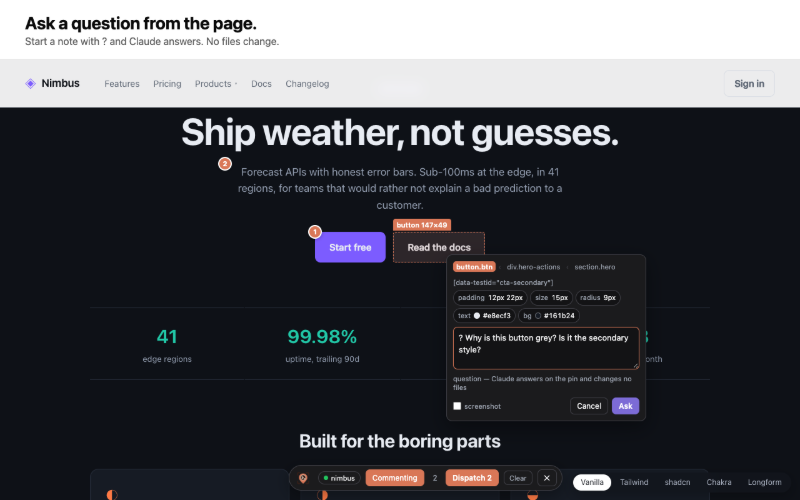
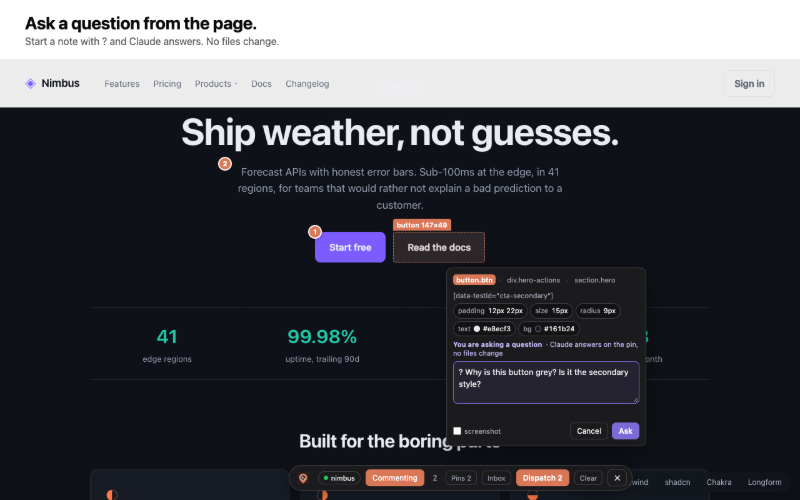
1.0.0: version, changelog, store listings for Chrome, Opera and Firefox, new store screenshots
The version is 1.0.0 in every file. The changelog covers everything since 0.4.5. The
Chrome and Opera listings name the new features, and store/firefox.md holds the listing
and reviewer notes for addons.mozilla.org. The store screenshots are made again with the
new toolbar, and the script now picks pins by their number, because pins are in page
order, and waits for the answer before it opens its card.

Changed region(s): [[0.5312, 0.51, 0.8125, 0.9], [0.5312, 0.93, 0.7812, 0.99]]

diff --git a/scripts/store-shots.js b/scripts/store-shots.js
@@ -172,8 +172,11 @@ try {
 
   // Claude answers the question, on pin 3.
   emit({ type: 'reply', id: 'story-0001#3', text: 'It is the secondary button style from the theme. The primary one is the purple above it. I left it as it is.' })
+  await host('.pin[aria-label^="Pin 3, question, answered"]').waitFor({ timeout: 8000 })
   await page.waitForTimeout(500)
-  await host('.pin').nth(2).click()
+  // The answer may open its own card; a click on the pin would then close it.
+  if (!(await host('.card').isVisible().catch(() => false))) await host('.pin[aria-label^="Pin 3,"]').click()
+  await host('.card').waitFor({ timeout: 5000 })
   await page.waitForTimeout(500)
   await shot('3-answer')
   await page.keyboard.press('Escape')
@@ -185,7 +188,7 @@ try {
   await page.waitForTimeout(400)
   emit({ type: 'resolved', id: 'story-0001#1', resolution: 'Raised the padding to 14px 28px and the font to 16px in Button.tsx' })
   await page.waitForTimeout(600)
-  await host('.pin').nth(0).click()
+  await host('.pin[aria-label^="Pin 1,"]').click()
   await page.waitForTimeout(500)
   await shot('5-fixed')
 

diff --git a/server/pinpoint.js b/server/pinpoint.js
@@ -66,7 +66,7 @@ const MAX_BATCH_IMAGES = 40 * 1024 * 1024
  * Keep in step with package.json and the manifests. PINPOINT_VERSION exists for the yield
  * test, which needs an older and a newer bridge built from the same file.
  */
-const VERSION = process.env.PINPOINT_VERSION ?? '0.4.5'
+const VERSION = process.env.PINPOINT_VERSION ?? '1.0.0'
 
 mkdirSync(QUEUE, { recursive: true })
 

diff --git a/docs/features.html b/docs/features.html
@@ -862,7 +862,7 @@
 </div>
 
 <header class="hero">
-  <div class="kicker">versions 0.2 to 0.5</div>
+  <div class="kicker">versions 0.2 to 1.0</div>
   <h1 class="tagline">Stop describing the fix.<br><em>Hand it over.</em></h1>
 
   <p class="lede">

diff --git a/store/firefox.md b/store/firefox.md
@@ -1,0 +1,144 @@
+# Firefox Add-ons listing: Pinpoint
+
+Everything the submission form at https://addons.mozilla.org/developers/ asks for, ready to
+paste. Build the package with `npm run build:firefox`. The screenshots are in
+`store/screenshots`, made by `npm run store:shots`.
+
+## Package
+
+- Build: `npm run build:firefox` copies `extension/` to `dist/firefox` and writes a Firefox
+  manifest next to the same code. The Firefox manifest differs from the Chrome one in four
+  keys: `background` (an event page that runs `worker.js`, because Firefox has no service
+  workers), `options_ui` (in place of `options_page`), the add-on id
+  `pinpoint@tolgainam.github.io` and `strict_min_version` 128.0.
+- Listed on AMO: zip the contents of the folder, with `manifest.json` at the top:
+  `cd dist/firefox && zip -r -X ../store/pinpoint-firefox-1.0.0.zip . -x '*.DS_Store'`.
+  Upload that file. Mozilla signs it for you.
+- Unlisted, signed by Mozilla for your own use: `npm run sign:firefox`. It builds the folder,
+  then runs `web-ext sign --channel=unlisted` and writes the signed `.xpi` to
+  `web-ext-artifacts`. It needs AMO API keys in the environment (`WEB_EXT_API_KEY` and
+  `WEB_EXT_API_SECRET`).
+- Version: `1.0.0`.
+- Minimum Firefox: 128. It is the first version that runs a content script in the page's own
+  world, which `probe.js` needs.
+- Add-on id: `pinpoint@tolgainam.github.io`.
+- Icon: `extension/icons/icon-128.png`.
+- Screenshots (800 x 500), in this order: `store/screenshots/1-dispatch.png`, `2-ask.png`,
+  `3-answer.png`, `4-backlog.png`, `5-fixed.png`. Each has a caption strip that says what it
+  shows.
+
+## Listing
+
+- **Name:** Pinpoint
+- **Summary** (250 characters at most): Pin comments to elements on your local web app and talk to
+  your Claude Code session from the page: ask, park or fix.
+- **Categories:** Developer Tools (first choice), Web Development if the form offers it.
+- **Description:**
+
+  Pinpoint is a two-way link between the page you are looking at and your Claude Code session.
+
+  Pin it. Click an element, write what is wrong, press Dispatch. Claude Code gets the CSS
+  selector, the component name where it can be found, the visible text, the element's size and
+  position, the page address and a cropped screenshot of exactly what you saw.
+
+  Ask it. Start a note with ? and Claude answers on the pin. No files change.
+
+  Park it. Start a note with ! and it joins your project's backlog, to pick up later.
+
+  Watch it get fixed. Claude edits your code, checks the element again and marks the comment
+  done. The pin turns green. Not right yet? Reply on the pin and it goes another round.
+
+  Why Claude Code only
+  Pinpoint is built on Claude Code's channels, a live link into your running session. That is
+  what lets answers, progress and fixes come back to the page, not just comments go out. No
+  other coding agent offers that link, so Pinpoint works with Claude Code only. Channels are a
+  research preview, so you start Claude Code with one extra flag. The setup steps show it.
+  Without the flag nothing is lost: run /pinpoint:comments in the session and every dispatched
+  comment is there.
+
+  More
+  - Works on localhost and 127.0.0.1 straight away. Any other site, such as a staging server,
+    is opt-in: clicking the icon asks the browser for that one site.
+  - Pins stay on their element and survive a reload.
+  - Picks values in your project's own design tokens.
+  - Freezes the page (Alt+Shift+F) so you can pin menus and states that vanish.
+  - Shows the page's console errors and failed requests next to a comment.
+  - Applies a picked change to a group of matching elements: the same classes, the same
+    component role, the same container or every tag. You see the count and a preview first.
+  - Pins follow single-page app routes, so each view of your app keeps its own pins.
+  - An inbox on the toolbar lists what needs your attention, such as an answer you have not
+    seen, and jumps to the pin.
+  - Works from the keyboard and with a screen reader. Alt+Shift+P moves focus to the toolbar.
+
+  Private by design
+  Everything stays on your machine. Pinpoint has no server, no account and no analytics. The
+  extension talks only to a small bridge on 127.0.0.1 that the Pinpoint plugin starts.
+
+  What you need
+  The free Pinpoint plugin for Claude Code and Node 20 or newer. Without the plugin the toolbar
+  shows "Offline" and Dispatch is turned off. Setup steps: https://github.com/tolgainam/pinpoint
+
+  Pinpoint is an independent tool. It is not affiliated with, endorsed by or sponsored by
+  Anthropic. "Claude" and "Claude Code" are trademarks of Anthropic, PBC.
+
+- **Licence:** MIT. Choose "MIT License" in the list.
+- **Support site:** https://github.com/tolgainam/pinpoint/issues
+- **Homepage:** https://tolgainam.github.io/pinpoint/
+- **Privacy policy:** https://github.com/tolgainam/pinpoint/blob/main/PRIVACY.md
+
+## Permissions, in plain words
+
+Use these if the form or a reviewer asks.
+
+| Permission | Why |
+|---|---|
+| `storage` | Keeps your pins, drafts, toolbar position and settings in the browser. |
+| `tabs` | Reads the address of the current tab so the toolbar can tell a local page from another site, and sends events to the right tab. |
+| `scripting` | Attaches the toolbar to a tab that was already open when the extension was installed or reloaded. |
+| `alarms` | Wakes the extension's background page every 30 seconds so that an answer from the coding agent still reaches the page while the browser window is in the background. |
+| `activeTab` | Lets the extension take a screenshot of the tab after you click its icon. |
+| `localhost` and `127.0.0.1` | The pages Pinpoint works on, and the address of its own local bridge. |
+| Optional: all sites | Never granted at install. Asked for one site at a time when you click the icon on a site that is not local, and once, on the welcome page, if you choose lasting screenshot access. |
+
+On Firefox the host access is a permission you can turn off. If localhost pages show no
+toolbar, open `about:addons`, pick Pinpoint, then Permissions, and allow access to the
+localhost sites.
+
+## Data collection
+
+- `data_collection_permissions`: `required: ["none"]`, set in the manifest by
+  `scripts/firefox.js`. Pinpoint collects and transmits no data.
+- The extension keeps pins and drafts in the browser's own storage. The only network target
+  is the bridge on the user's own machine (`http://127.0.0.1:8788`).
+- Firefox older than 140 ignores `data_collection_permissions`. `web-ext lint` says so as a
+  warning. The minimum version is 128, so the warning stays.
+
+## Notes for the reviewer
+
+- **Source:** public and unminified, no build step. https://github.com/tolgainam/pinpoint
+  Nothing is bundled, transpiled or minified. The files in the package are the files in
+  `extension/`.
+- **How to reproduce the package:** clone the repository, run `npm run build:firefox` (Node 20
+  or newer, no `npm install` needed for this step), and compare `dist/firefox` with the
+  upload. The only file that differs from `extension/` is `manifest.json`, which
+  `scripts/firefox.js` derives from the Chrome one. The script is short and has comments.
+- **Network:** the extension talks only to `http://127.0.0.1:8788`, a bridge on the user's
+  own machine. It sends nothing to any other host.
+- **Remote code:** none. All code is in the package and no script is loaded from anywhere.
+- **How to try it without Claude Code:** run any page on localhost, for example
+  `python3 -m http.server 8000` in a folder with an `index.html`, open
+  `http://localhost:8000`, and click the Pinpoint icon. The toolbar shows "Offline" because
+  no bridge is running, but you can pick elements, write notes and see pins. Dispatch needs
+  the bridge.
+- **Manifest version:** 3, with an event page (`background.scripts`). The content script
+  `probe.js` uses `"world": "MAIN"`, which needs Firefox 128.
+
+## Before you submit
+
+1. Run `npm run build:firefox`, then `npx --yes web-ext lint --source-dir=dist/firefox`.
+2. Zip `dist/firefox` as shown under Package.
+3. Make sure `PRIVACY.md` is pushed to the `main` branch, or the privacy link will not open.
+4. Test the folder yourself: in Firefox, `about:debugging#/runtime/this-firefox`,
+   Load Temporary Add-on, and pick `dist/firefox/manifest.json`. Allow localhost access under
+   `about:addons`.
+5. Run `npm run store:shots` if the screenshots are out of date.

diff --git a/CHANGELOG.md b/CHANGELOG.md
@@ -1,5 +1,51 @@
 # Changelog
 
+## 1.0.0
+
+Update both halves. Press Reload on Pinpoint in your browser's extensions page, and run
+`claude plugin update pinpoint@pinpoint-marketplace` for the plugin. An older extension with a
+newer bridge, or a newer extension with an older bridge, still works. The features that need
+both halves stay hidden until both are updated.
+
+- Apply to: choose which elements a change covers. After you pick a value, the composer shows
+  Only this, Same classes, Same component role, Same container or Every tag, each with a count
+  for the current page. Hover or focus an option and the members are outlined. Choose one and
+  the change previews on all of them. A wider group warns you when its members differ. The
+  card of a saved comment says which group it applies to, for example "Applies to: Same
+  classes · 3 elements". The bridge checks the group and tells the model that it is a set of
+  rendered nodes, that the selector is only a hint, and that the shared source is the place to
+  change. Only this changes nothing, as before.
+- Pins follow the routes of single-page apps. A page that keeps its state in the URL keeps its
+  pins. Pins are stored by origin, path and route. Only `#/path` and `#!/path` count as a route,
+  so a hash that only holds state (`#tab=2`) no longer hides pins. Old pins move to the new
+  key on their own. A pin made on another URL state is marked, and a pin whose element is gone
+  is dimmed. Each comment has its own id, and two tabs merge their changes by id, so neither
+  loses the other's work.
+- Inbox on the toolbar. A badge counts the comments that need you: a failed dispatch, an
+  unsaved parked note, an unseen answer, an edit or a resolve, or a pin whose element is gone.
+  This page lists them in groups, shows answers in full and jumps to the pin. Project lists the
+  comments of the other routes on the same origin and asks the bridge once per opening for
+  newer answers. An answer can now say that it needs your input (`requiresResponse`). Nothing
+  depends on it being set.
+- Keyboard and screen reader. The toolbar is one tab stop with arrow keys. Pins are buttons with
+  a spoken name: number, kind, state and note. Escape returns focus to a stated place. A polite
+  live region announces results. Focus rings, reduced motion, forced colours and 200 percent
+  zoom are handled. Alt+Shift+P shows the toolbar and moves the keyboard to it. This adds a
+  command and no permission.
+- The design system stays fresh. The bridge re-checks the config and theme files it read, and
+  refreshes in the background when they change. A failed refresh keeps the last good summary
+  and marks it stale. The status pill has a Refresh design system button, and an open composer
+  says when its data may be out of date.
+- Screenshots are saved without blocking the bridge, with a size limit of 12 MiB each and
+  40 MiB per dispatch. A failed write leaves no half batch behind and the page is told. A
+  parked note whose screenshot cannot be saved is kept, with a warning.
+- Backlog and history are written under a project lock. Two sessions on one project can write at
+  once without losing an entry or finishing the wrong item. A lock left by a dead process is
+  recovered.
+- Behind the scenes: `npm run check` runs the syntax, design token, repo rule and type checks
+  in one go, and CI runs it before the tests. The lockfile now resolves zod and body-parser
+  outside the ranges of the high severity advisories.
+
 ## 0.4.5
 
 - Two sessions open on one project no longer swap places. A dispatch goes to the session that

diff --git a/store/chrome.md b/store/chrome.md
@@ -6,7 +6,7 @@ each tab. Build the zip and the images with `npm run package:extension` and
 
 ## Package
 
-- File: `dist/store/pinpoint-0.4.5.zip`. It is the `extension/` folder with `manifest.json`
+- File: `dist/store/pinpoint-1.0.0.zip`. It is the `extension/` folder with `manifest.json`
   at the top. The same file works for Edge Add-ons.
 - The extension's name and description come from `manifest.json`. The description is under
   132 characters, which the store requires.
@@ -47,6 +47,12 @@ each tab. Build the zip and the images with `npm run package:extension` and
   - Picks values in your project's own design tokens.
   - Freezes the page (Alt+Shift+F) so you can pin menus and states that vanish.
   - Shows the page's console errors and failed requests next to a comment.
+  - Applies a picked change to a group of matching elements: the same classes, the same
+    component role, the same container or every tag. You see the count and a preview first.
+  - Pins follow single-page app routes, so each view of your app keeps its own pins.
+  - An inbox on the toolbar lists what needs your attention, such as an answer you have not
+    seen, and jumps to the pin.
+  - Works from the keyboard and with a screen reader. Alt+Shift+P moves focus to the toolbar.
 
   Private by design
   Everything stays on your machine. Pinpoint has no server, no account and no analytics. The
@@ -82,7 +88,7 @@ each tab. Build the zip and the images with `npm run package:extension` and
   | `tabs` | Reads the address of the current tab to tell a local page from another site, and sends events from the worker to the right tab. |
   | `scripting` | Attaches the toolbar to a tab that was already open when the extension was installed or reloaded, and to a site the user chose. |
   | `alarms` | Wakes the extension's background worker every 30 seconds so that an answer from the coding agent still reaches the page while the browser window is in the background. |
-| `activeTab` | Takes a screenshot of the tab after the user clicks the icon. |
+  | `activeTab` | Takes a screenshot of the tab after the user clicks the icon. |
   | Host access: `http://localhost/*`, `http://127.0.0.1/*` | The pages Pinpoint works on, and the address of its own local bridge (`127.0.0.1:8788`). |
   | Optional host access: all sites | Not granted at install. Asked for one site at a time when the user clicks the icon on a site that is not local, and once on the welcome page if the user chooses screenshots without clicking. |
 
@@ -107,6 +113,8 @@ each tab. Build the zip and the images with `npm run package:extension` and
 
 - **Source:** public and unminified, no build step: https://github.com/tolgainam/pinpoint
 - **Network:** only `http://127.0.0.1:8788`. Nothing is sent to any other host.
+- **Shortcuts:** Alt+Shift+F freezes the page and Alt+Shift+P moves the keyboard to the toolbar.
+  Both are extension commands and need no permission.
 - **How to try it without the plugin:** open any page on localhost and click the icon. The
   toolbar shows "Offline" because no bridge is running, but you can pick elements, write
   notes and see pins. Dispatch needs the bridge.

diff --git a/store/opera.md b/store/opera.md
@@ -6,9 +6,9 @@ screenshots are in `store/screenshots`, made by `npm run store:shots`.
 
 ## Package
 
-- File: `dist/store/pinpoint-0.4.5.zip` (the contents of `extension/`, with `manifest.json`
+- File: `dist/store/pinpoint-1.0.0.zip` (the contents of `extension/`, with `manifest.json`
   at the top of the zip).
-- Version: `0.4.5`.
+- Version: `1.0.0`.
 - Icon: `extension/icons/icon-128.png`. A larger square PNG is at `.claude-plugin/icon.png`
   (1024 x 1024).
 - Screenshots (800 x 500, scaled from the Chrome set; the site allows up to 800 x 600), in this
@@ -51,6 +51,12 @@ screenshots are in `store/screenshots`, made by `npm run store:shots`.
   - Picks values in your project's own design tokens.
   - Freezes the page (Alt+Shift+F) so you can pin menus and states that vanish.
   - Shows the page's console errors and failed requests next to a comment.
+  - Applies a picked change to a group of matching elements: the same classes, the same
+    component role, the same container or every tag. You see the count and a preview first.
+  - Pins follow single-page app routes, so each view of your app keeps its own pins.
+  - An inbox on the toolbar lists what needs your attention, such as an answer you have not
+    seen, and jumps to the pin.
+  - Works from the keyboard and with a screen reader. Alt+Shift+P moves focus to the toolbar.
 
   Private by design
   Everything stays on your machine. Pinpoint has no server, no account and no analytics. The
